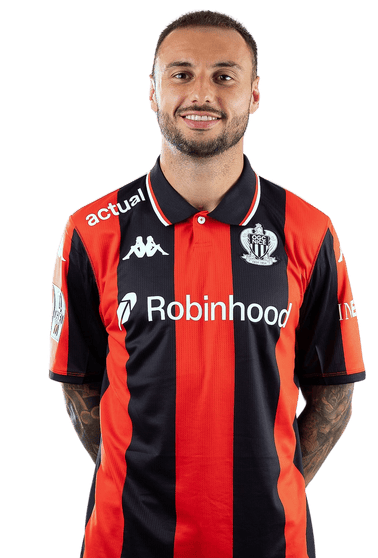
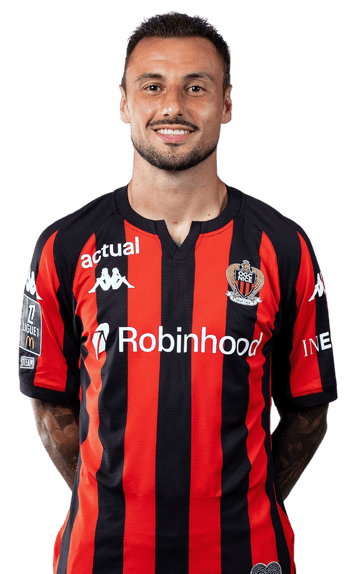
ajout buteursnames

diff --git a/src/components/Affiche.jsx b/src/components/Affiche.jsx
@@ -44,6 +44,15 @@ import diego from "../assets/stades/diego.jpg"
 import { teamName } from '../datas/teamNames';
 import { useTranslation } from 'react-i18next';
 
+const buteursNames = {
+    44 : "Rodri",
+    1323: "Dani Olmo",
+    182219 : "Alex Baena",
+    377122: "Endrick"
+
+
+}
+
 
 
 const Affiche = ({ match, roundd, buteurHome, buteurExt, buteurHomeP, buteurExtP, formeHome, formeExt, onPress, classement }) => {
@@ -349,7 +358,7 @@ const backgroundSource =
     <TouchableOpacity accessible accessibilityLabel={`Afficher la fiche complète de ${evenement.player.name}`} accessibilityHint={evenement.detail === "Red Card" ? `carton rouge pour ${evenement.player.name} à la ${evenement.time.elapsed}ème minute` : `but de ${evenement.player.name} à la ${evenement.time.elapsed}ème minute`} onPress={() => navigation.navigate("FicheJoueur", { id: evenement.player.id, team: evenement.team.id })} style={{flexDirection: "row", alignItems: "center"}}>
         {evenement.detail === "Red Card" ? <View style={{flexDirection: "row", alignItems: "center"}}><Image source={red} style={{height: 22, width: 22, objectFit: "contain"}} /><Text style={[styles.text, {fontSize: isMediumScreen ? 14 : 11.5}]}>{evenement.player.name}, </Text><Text style={{fontFamily: "Kanitalik", fontSize: isMediumScreen ? 14 : 11.5}}>{evenement.time.elapsed}'{evenement.time.extra ? `+ ${evenement.time.extra}`:null}</Text></View> : null}
         :
-        {evenement.type === "Goal" && evenement.detail != "Missed Penalty" && evenement.comments != "Penalty Shootout" ? <View style={{alignItems: "center"}}><Text style={styles.text}><Text style={styles.goalIcon}>⚽</Text> <Text style={{fontSize: isMediumScreen ? 14 : 11.5}}> {evenement.player.name === "R. Lewandowski" ? "Lewandowski" : evenement.player.name}, </Text> <Text style={{fontFamily: "Kanitalik", fontSize: isMediumScreen ? 14 : 11.5}}>{evenement.time.elapsed}'{evenement.time.extra  ? `+ ${evenement.time.extra}` : null}</Text> {evenement.detail === "Own Goal" ? <Text style={styles.csc}>(csc)</Text> : null} {evenement.detail === "Penalty" ? <Text style={styles.penalty}>(pen)</Text> : null}</Text></View> : null}
+        {evenement.type === "Goal" && evenement.detail != "Missed Penalty" && evenement.comments != "Penalty Shootout" ? <View style={{alignItems: "center"}}><Text style={styles.text}><Text style={styles.goalIcon}>⚽</Text> <Text style={{fontSize: isMediumScreen ? 14 : 11.5}}> {buteursNames[evenement.player.id] || evenement.player.name}, </Text> <Text style={{fontFamily: "Kanitalik", fontSize: isMediumScreen ? 14 : 11.5}}>{evenement.time.elapsed}'{evenement.time.extra  ? `+ ${evenement.time.extra}` : null}</Text> {evenement.detail === "Own Goal" ? <Text style={styles.csc}>(csc)</Text> : null} {evenement.detail === "Penalty" ? <Text style={styles.penalty}>(pen)</Text> : null}</Text></View> : null}
     </TouchableOpacity> : null : null)}
 
 </View>
@@ -359,7 +368,7 @@ const backgroundSource =
     <TouchableOpacity accessible accessibilityLabel={`Afficher la fiche complète de ${evenement.player.name}`} accessibilityHint={evenement.detail === "Red Card" ? `carton rouge pour ${evenement.player.name} à la ${evenement.time.elapsed}ème minute` : `but de ${evenement.player.name} à la ${evenement.time.elapsed}ème minute`} onPress={() => navigation.navigate("FicheJoueur", { id: evenement.player.id, team: evenement.team.id })} style={{flexDirection: "row", alignItems: "start", justifyContent: "flex-end"}}>
         {evenement.detail === "Red Card" ? <View style={{flexDirection: "row", alignItems: "center"}}><Text style={[styles.text, {fontSize: isMediumScreen ? 14 : 11.5}]}>{evenement.player.name}, </Text><Text style={{fontFamily: "Kanitalik", fontSize: isMediumScreen ? 14 : 11.5}}>{evenement.time.elapsed}'{evenement.time.extra ? `+ ${evenement.time.extra}` : null}</Text><Image source={red} style={{height: 22, width: 22, objectFit: "contain"}} /></View> : null}
         :
-        {evenement.type === "Goal" && evenement.detail != "Missed Penalty" && evenement.comments != "Penalty Shootout" ? <View><Text style={styles.text}> <Text style={{fontSize: isMediumScreen ? 14 : 11.5}}> {evenement.player.name === "R. Lewandowski" ? "Lewandowski" : evenement.player.name}, </Text>{evenement.detail === "Own Goal" ? <Text style={styles.csc}>(csc)</Text> : null} {evenement.detail === "Penalty" ? <Text style={styles.penalty}>(pen) </Text> : null} <Text style={{fontFamily: "Kanitalik", fontSize: isMediumScreen ? 14 : 11.5}}>{evenement.time.elapsed}'{evenement.time.extra ? `+ ${evenement.time.extra}` : null}</Text> <Text style={styles.goalIcon}>⚽</Text></Text></View> : null}
+        {evenement.type === "Goal" && evenement.detail != "Missed Penalty" && evenement.comments != "Penalty Shootout" ? <View><Text style={styles.text}> <Text style={{fontSize: isMediumScreen ? 14 : 11.5}}> {buteursNames[evenement.player.id] || evenement.player.name}, </Text>{evenement.detail === "Own Goal" ? <Text style={styles.csc}>(csc)</Text> : null} {evenement.detail === "Penalty" ? <Text style={styles.penalty}>(pen) </Text> : null} <Text style={{fontFamily: "Kanitalik", fontSize: isMediumScreen ? 14 : 11.5}}>{evenement.time.elapsed}'{evenement.time.extra ? `+ ${evenement.time.extra}` : null}</Text> <Text style={styles.goalIcon}>⚽</Text></Text></View> : null}
     </TouchableOpacity> : null : null)}
 
 </View>

diff --git a/src/components/Aujourdhui.jsx b/src/components/Aujourdhui.jsx
@@ -397,9 +397,9 @@ const filteredMatches = useMemo(() => {
 
         {/* FILTRES */}
         <ScrollView horizontal showsHorizontalScrollIndicator={false} contentContainerStyle={styles.filtersRow} >
-           {[ { key: 'all', label: 'Tous' }, { key: 'live', label: 'En cours' },
-             { key: 'upcoming', label: 'À venir' },
-              { key: 'finished', label: 'Terminés' }, ].map((item) => ( 
+           {[ { key: 'all', label: t("Tous") }, { key: 'live', label: t("En cours") },
+             { key: 'upcoming', label: t("À venir") },
+              { key: 'finished', label: t("Terminés") }, ].map((item) => ( 
               <TouchableOpacity key={item.key} onPress={() => { Haptics.selectionAsync(); setFilter(item.key); }} style={[ styles.filterChip, filter === item.key && styles.filterChipActive, ]} >
                  <Text style={[ styles.filterText, filter === item.key && styles.filterTextActive, ]} > {item.label} </Text>
                   </TouchableOpacity> )

diff --git a/src/datas/Fiches.jsx b/src/datas/Fiches.jsx
@@ -310,6 +310,7 @@ import diomande from "../assets/portraits/fiche/diomande.webp"
 import tielemans from "../assets/portraits/fiche/tielemans.png"
 import godts from "../assets/portraits/fiche/godts.png"
 import saud from "../assets/portraits/fiche/saud.png"
+import wahi from "../assets/portraits/fiche/wahi.png"
 import ryerson from "../assets/portraits/fiche/ryerson.webp"
 import barco from "../assets/portraits/fiche/barco.webp"
 import emegha from "../assets/portraits/fiche/emegha.webp"
@@ -319,6 +320,7 @@ import nunes from "../assets/portraits/fiche/nunes.webp"
 
 
 export const fichesJoueurs = {
+    162707: wahi,
     44594: saud,
     41621: nunes,
     340153: godts,

diff --git a/src/datas/Portraits.jsx b/src/datas/Portraits.jsx
@@ -268,12 +268,16 @@ import diomande from "../assets/portraits/diomande.png"
 import godts from "../assets/portraits/godts.png"
 import nunes from "../assets/portraits/nunes.png"
 import saud from "../assets/portraits/saud.png"
+import amoura from "../assets/portraits/amoura.png"
+import wahi from "../assets/portraits/wahi.png"
 
 
 
 
 
 export const portraitsJoueurs = {
+        200139: amoura,
+    162707: wahi,
     41621: nunes,
     44594: saud,
     340153: godts,

diff --git a/src/screens/FicheCoach.jsx b/src/screens/FicheCoach.jsx
@@ -45,7 +45,7 @@ export const coachImages = {
     2424: dezerbi,
     12629: maresca,
     6801: alonso,
-    68: genesio,
+    25653: genesio,
     1595: simeone,
     4720: amorim,
     18: emery,

diff --git a/src/components/Compositions.jsx b/src/components/Compositions.jsx
@@ -83,7 +83,7 @@ useEffect(() => {
   const coachImages = {
   12629: maresca,
   6801: alonso,
-  68: genesio,
+  25653: genesio,
   1595: simeone,
   4720: amorim,
   18: emery,
